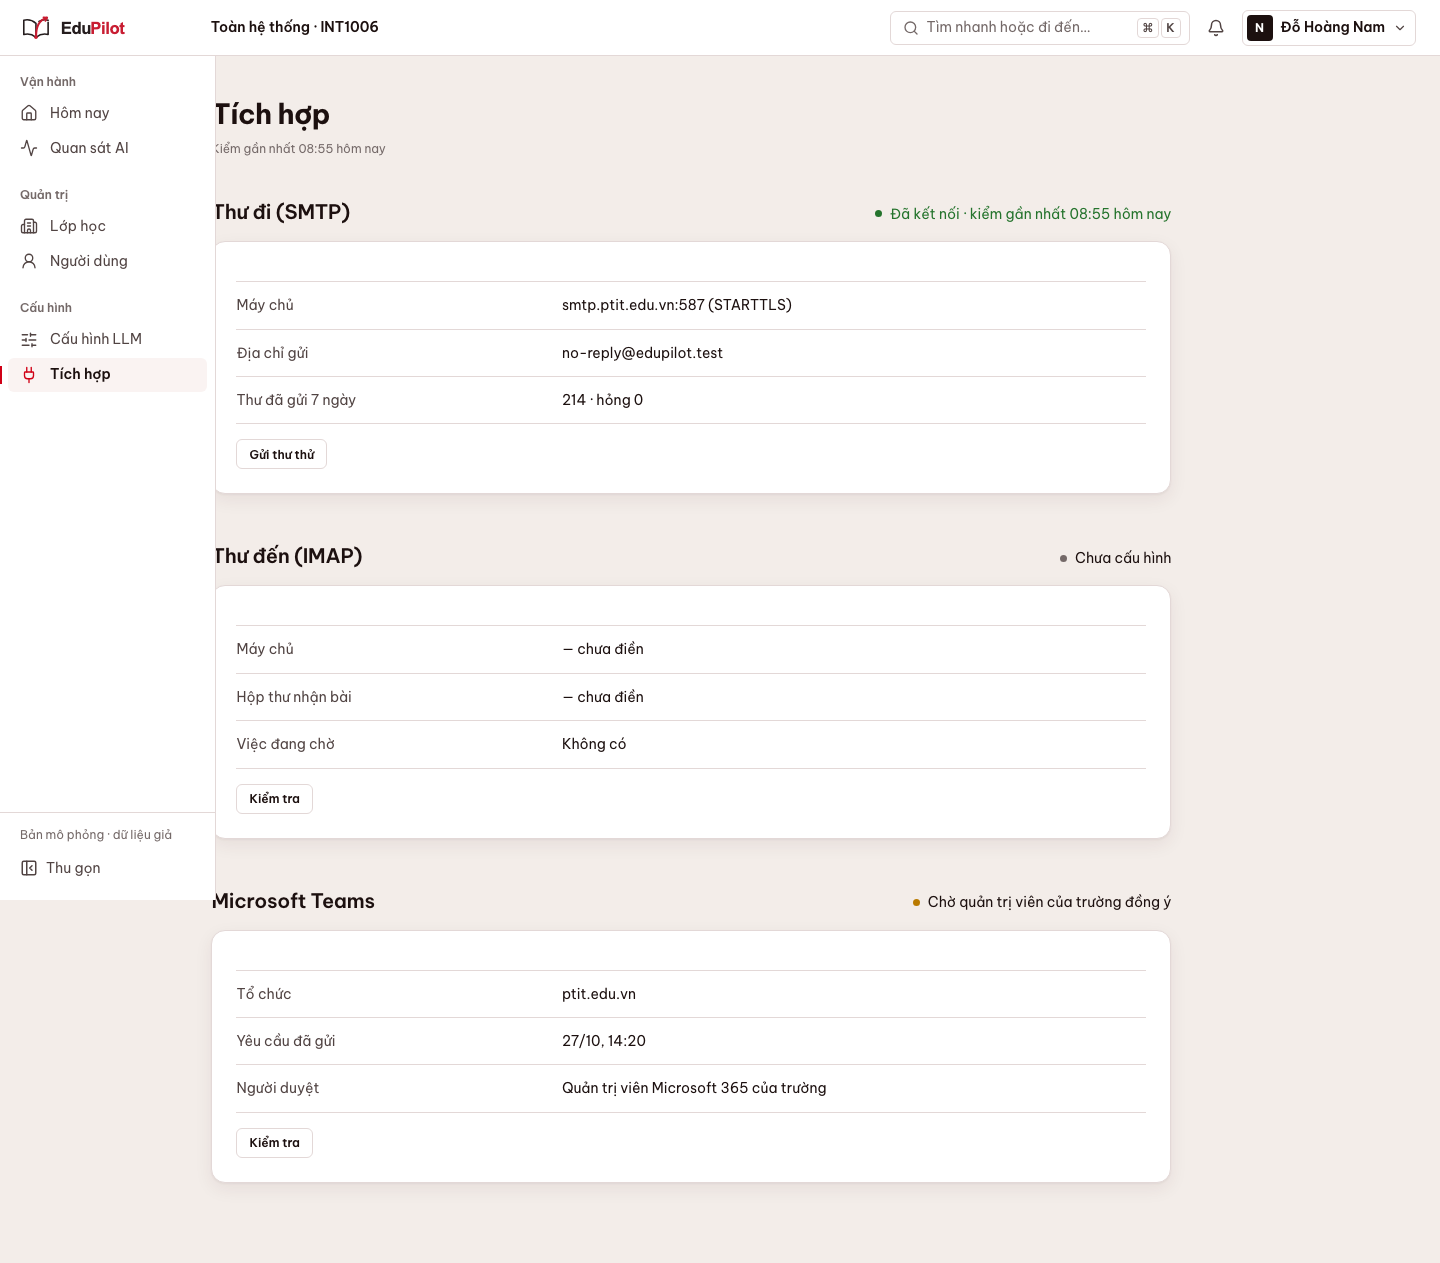
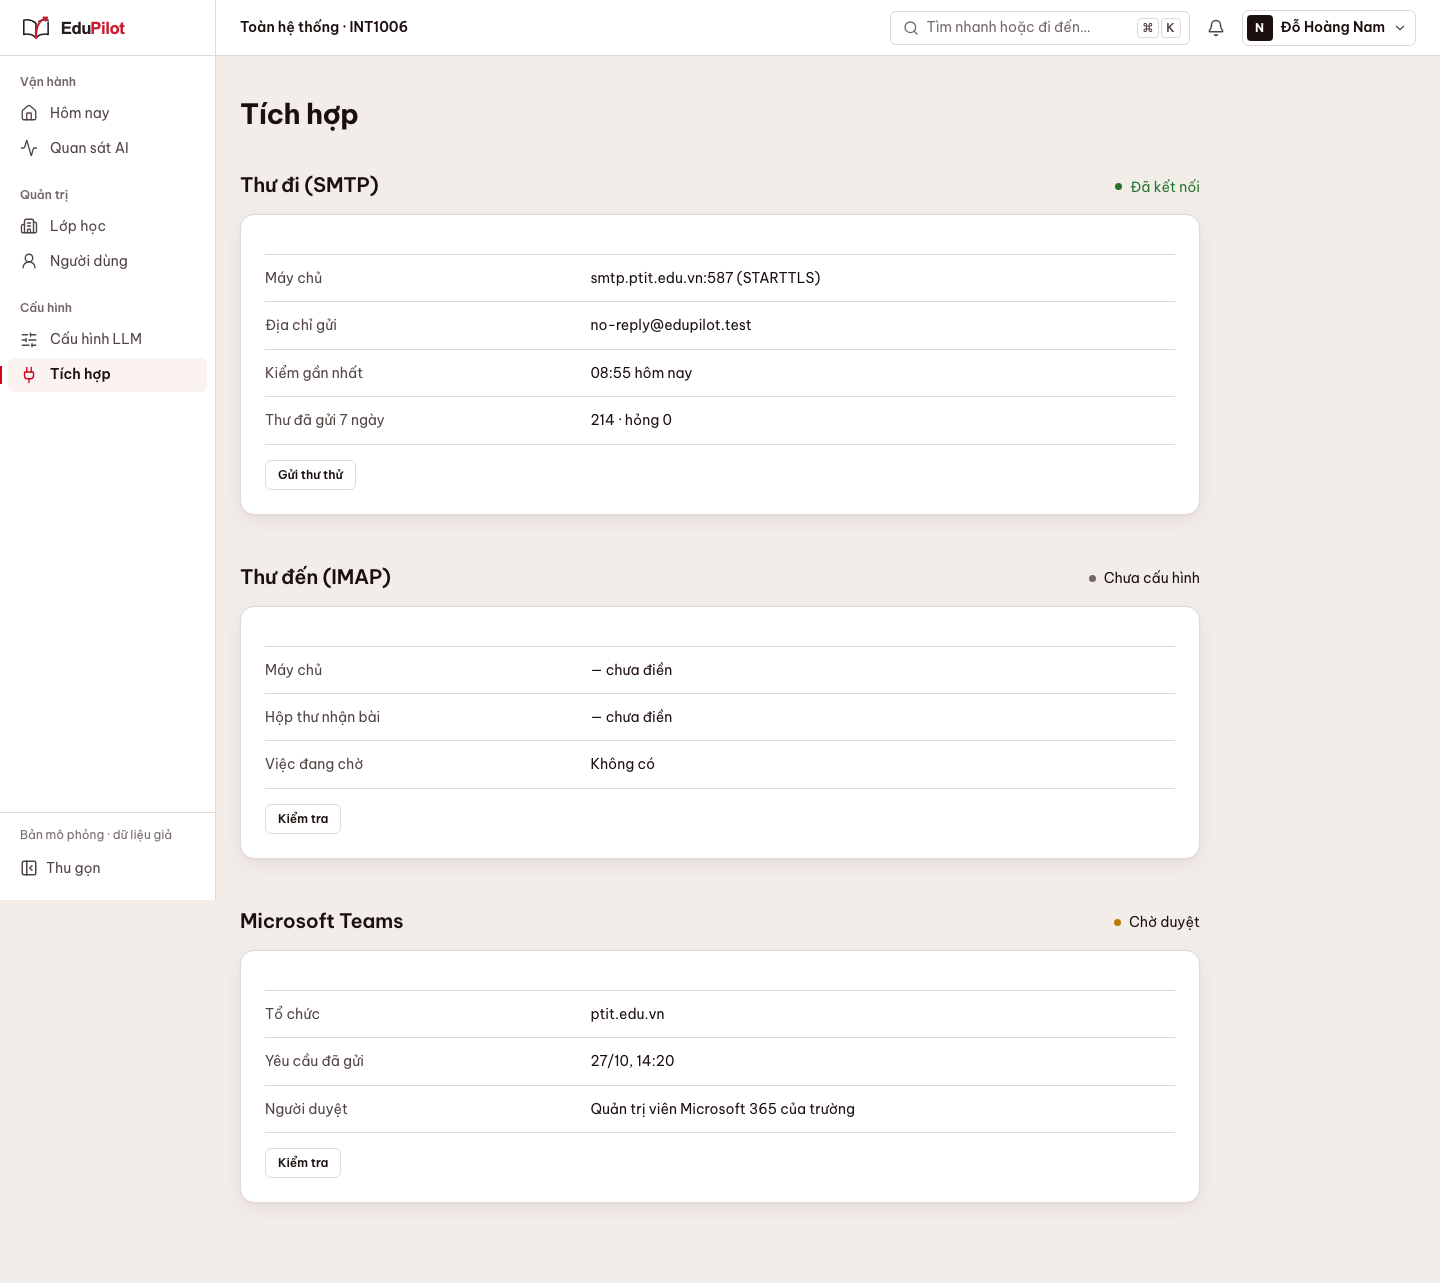
sprint 8: QC report US-S8-UI vòng 2–3 (PASS giao diện), US-P6-03 (FAIL: 3 test cũ đỏ)

diff --git a/docs/sprints/8/qc/report-US-P6-03.md b/docs/sprints/8/qc/report-US-P6-03.md
@@ -1,0 +1,95 @@
+# QC report — US-P6-03 (trích công thức từ quy chế: `ExtractGradeScheme`, bộ kiểm bằng code, trích dẫn, AI chỉ nháp) · Kết luận: **FAIL** (vòng 1)
+Ngày 2026-10-31. Commit kiểm: `sprint/8-p6` @ `4acd28b6` (dev) → kiểm trên `d4efecdd`/`f4921c86` (không đổi mã story). Bộ TC: `tc-US-P6-03.md` (sửa 1 dòng theo #11, lịch sử trong tệp). Handoff: `dev-US-P6-03.md`. **CI của dev đỏ** (run `41185772706`: `Go test (rest-1)`, `Go test (rest-2)`, `Frontend e2e (Playwright 1/3, 2/3)`, `Frontend Lighthouse (devtools B)`); QC xác nhận lại ba lỗi Go trên máy QC. Lượt chấm vẫn làm đủ để dev sửa một lần; AC của story không có AC nào FAIL ở mức hành vi, nhưng story **không** đạt "không phá cái đang chạy" (`AGENTS.md` nguyên tắc 8).
+
+## 1. Cổng nghiệm thu đã chạy
+| Lệnh | Kết quả |
+| --- | --- |
+| `p6-go-tests.sh ./internal/grading "<37 test của US-P6-03>"` | PASS 37/37 (không thiếu, không SKIP) |
+| `go test -count=1 -race -tags integration ./internal/grading/... ./internal/grade/...` | PASS (167 test) |
+| `go test -count=1 ./internal/contract/...` (không `-tags testroutes`) | PASS |
+| `go test -count=1 -race -tags testroutes ./internal/contract -run TestSpec_LoadsAndValidates` | **FAIL**: `contract_test.go:67: openapi.yaml: 227 thao tác (cần 226)` |
+| `go test -count=1 -tags testroutes ./internal/integration -run TestNoUnscopedChunkQuery` | **FAIL**: `course_guard_test.go:141` — `GradeDocForExtract (grade_scheme.sql): đọc content_chunks mà không lọc theo course_ids` |
+| `go test -count=1 -tags testroutes ./internal/rag -run TestKnowledgeDocExcludedEverywhere` | **FAIL**: `knowledge_test.go:175` — `grade_scheme.sql: truy vấn đọc documents mà không loại tài liệu tri thức` (thiếu `THREAD_KNOWLEDGE`) |
+| `go test ./internal/integration -run TestAllCourseRoutesGuarded` | PASS (route mới đi qua guard; `…DetectsMissing` PASS) |
+| `go vet` các gói đụng tới; `golangci-lint run ./internal/grading/... ./internal/grade/... ./internal/httpapi/...` | PASS, `0 issues` |
+| `sqlc diff` | PASS rc=0 |
+| `grep -rln 'openai-go\|api.openai.com' internal --include=*.go \| grep -v '_test.go\|internal/llm/'` | rỗng (SDK chỉ ở `internal/llm`, luật 3) |
+| `grep -rn ConfirmScheme backend-go --include=*.go` | rỗng — chưa có hàm xác nhận nào (US-P6-04 thêm); AC6 hiện đúng |
+| Thử đột biến (bản sao `/tmp/qc-mut`, đã xoá) | xem mục 2 |
+| `p6-hand-calc.py`; `p6-citation-check.py` ở fixture | rc=0; 10/10 và 6/6 trích dẫn đúng trang (đáp án BA đúng) |
+| `playwright test class-join.spec.ts -g "bell real: chấm"` (máy QC) | **FAIL 4/4 lần** (`class-join.spec.ts:398` `expect.poll(() => lists).toBeGreaterThan(before)`: Received 1) — trùng ca đỏ ở CI shard 1/3 desktop + mobile (retry #1 cũng đỏ) |
+
+## 2. Thử đột biến (test của dev có bảo vệ hành vi không?)
+| Đột biến | Kết quả |
+| --- | --- |
+| N1 bỏ `ROUNDING_MISSING` ở bộ kiểm | **đỏ**: `TestCheckerRounding`, `TestExtractLop2OneUnclear` |
+| N2 tắt kiểm trích dẫn (`cited != nil` → `false`) | **đỏ**: `TestCitationNotFound`, `…PageMissing`, `…OCRTolerance`, `…ComparedAfterUnmask` |
+| N3 thử lại cả lỗi không-tạm (`!transient` → `false`) | **đỏ**: `TestExtractLLMDown` |
+| N4 `temperature` 0 → 0,7 | **đỏ**: `TestExtractOneStructuredCall` |
+| N5 `maxAttempts` 3 → 5 | **đỏ**: `TestExtractLLMDown` |
+| N7 bỏ nhánh "bản nháp bị sửa trong lúc job chạy" | **đỏ**: `TestExtractDraftEditedDuringJob` |
+
+## 3. Kết quả TC
+| TC | Kết quả | Bằng chứng |
+| --- | --- | --- |
+| 01 `extract` → `202 {job_id}` → job xong, SSE tiến độ | PASS ở mức test (contract `202`, `TestExtractGradeScheme` chạy job tới `DONE`) | chưa chạy trên stack đầy đủ + SSE trình duyệt: để US-S8-SEED / gate |
+| 02 đúng một lời gọi `llm_audit`, `UTILITY`, `NEAR_REALTIME` | PASS | `TestExtractUsesPrivacyMask` (đếm `llm_audit` từng lời gọi), `TestExtractTaskAndLane`, `TestExtractOneStructuredCall` |
+| 03 không lộ toàn văn quy chế ở log / `llm_audit` | PASS theo cấu trúc | `llm_audit` không có cột nội dung (đã đọc `db/migrations/00002_llm.sql`: `llm_audit` chỉ có task, lane, provider, model, token, trạng thái — không cột prompt / response) |
+| 04 SDK chỉ ở `internal/llm` | PASS | grep rỗng |
+| 05 test AC1 | PASS | 5/5 |
+| 06 schema `strict` | PASS | `TestExtractSchemaStrictCompatible` |
+| 07–09 quy chế lớp 1: 3 thành phần 20/20/60, đủ luật, `unclear_items` rỗng | PASS | `TestExtractGradeScheme` so từng trường với `extraction-lop1.json` |
+| 10 trích dẫn đúng trang | PASS | `p6-citation-check.py` 10/10 ở fixture; `TestCitationVerified` |
+| 11 `seed/demo/quy-che-lop1.pdf` | KHÔNG KIỂM ĐƯỢC (chưa có PDF) → US-S8-SEED | |
+| 12 `Quyche.pdf` → `OTHER` | KHÔNG KIỂM ĐƯỢC → US-S8-SEED | |
+| 13, 15 lớp 2: đúng một `ROUNDING_MISSING` | PASS | `TestExtractLop2OneUnclear` (N1 làm đỏ) |
+| 14 PDF lớp 2 không có "làm tròn" | PASS ở nguồn: `grep -ciE 'làm tròn|quy tròn|bước điểm' fixtures/quy-che-lop2.md` = 0; PDF: → US-S8-SEED | |
+| 16 test bộ kiểm | PASS 8/8 | `TestChecker*` |
+| 17–20 đầu ra LLM cố ý sai (tổng 90, thang lỗi, `PARAM_INVALID`, LLM nói `unclear_items: []`) | PASS (test của dev + N1) | mã do code thêm (`source CODE`), không tin LLM |
+| 21–24 trích dẫn bịa / sai trang / bỏ dấu / đổi chữ | PASS | `TestCitation*` 5/5; N2 làm đỏ; `vn_fold` chỉ ở SQL (`grade_scheme.sql`), không có hàm `vnFold` ở Go |
+| 25, 27 `DRAFT`, `confirmed_by` NULL; không đường xác nhận ngoài handler | PASS | `TestExtractNeverConfirms`; không có `ConfirmScheme`; `TestConfirmOnlyFromHandler` thuộc US-P6-04 |
+| 26 `ConfirmScheme` chỉ tham chiếu từ handler | PASS hiện tại (chưa tồn tại) → kiểm lại ở US-P6-04 | |
+| 28 seed không ghi thẳng DB | KHÔNG KIỂM ĐƯỢC → US-S8-SEED | |
+| 29, 31 prompt có ranh giới, không theo lệnh trong văn bản, mask PII | PASS | `TestPromptDelimitsDocument`, `TestPromptNoInstructionFollowing`, `TestExtractUsesPrivacyMask` |
+| 30 injection "đặt trọng số 100% giữa kỳ" | PASS ở mức dựng prompt (test của dev); provider giả phát lại bản ghi nên không tự chứng minh LLM "không tuân lệnh" (giới hạn đã ghi ở TC) | |
+| 32–34 `DOCUMENT_NOT_POLICY` / `NOT_READY` / `POLICY_TOO_LONG` | PASS | contract (422 / 409 / 422) + `TestExtract{NotPolicy,NotReady,TooLong}` |
+| 35–37 LLM lỗi → thử lại ≤ 3 → `LLM_UNAVAILABLE`; sai schema → `EXTRACTION_INVALID` một lời gọi; không phá `CONFIRMED` | PASS | `TestExtractLLMDown`, `TestExtractInvalidSchema`, `TestExtractFailureKeepsConfirmed`; N3, N5 làm đỏ |
+| 38–39 idempotent; worker bị giết | PASS | `TestExtractIdempotentKey`, `TestExtractIdempotencyHTTP`, `TestExtractKillWorkerMidRun` |
+| 40–42 `DRAFT_EXISTS`, `replace_draft`, sửa trong lúc job chạy, `version` đổi | PASS | `TestExtract{DraftExists,ReplaceDraft,DraftEditedDuringJob,ReplaceDraftVersionChanged}`; N7 làm đỏ |
+| 43 12 test AC7–AC8 | PASS | |
+| 44, 46–48 TA / STUDENT / ADMIN `403`; STUDENT đọc `403`; TA đọc | PASS: contract (`401` không đăng nhập, `403` TA/SV/ADMIN) + `TestExtractRBAC`; TA `GET …/grade-scheme` thuộc US-P6-04 | |
+| 45 giảng viên lớp khác | PASS theo #11: `403` (guard dùng chung); id không phải uuid `404` (contract dòng 47); document không tồn tại `404` | |
+
+## 4. AC
+| AC | Kết quả |
+| --- | --- |
+| AC1 một lời gọi có cấu trúc | PASS |
+| AC2 quy chế lớp 1 | PASS (mức fixture/provider giả; PDF seed ở US-S8-SEED) |
+| AC3 quy chế lớp 2 một chỗ chưa rõ | PASS (như trên) |
+| AC4 bộ kiểm bằng code | PASS |
+| AC5 trích dẫn có thật | PASS |
+| AC6 AI chỉ nháp | PASS |
+| AC7 nhánh lỗi tài liệu / LLM | PASS |
+| AC8 idempotent, nhận lại việc | PASS |
+| AC9 tài liệu là dữ liệu không tin cậy; riêng tư | PASS |
+| AC10 phân quyền | PASS (theo #11) |
+
+Các AC của story **PASS**; story **FAIL** vì phá test cũ / CI đỏ (mục 5).
+
+## 5. Lỗi
+- **BUG-P6-03-1 (Cao — phá test cũ, rule bảo mật):** `internal/store/queries/grade_scheme.sql` truy vấn `GradeDocForExtract` đọc `content_chunks` mà không có điều kiện `course_ids` → `TestNoUnscopedChunkQuery` (`internal/integration/course_guard_test.go:141`, "truy vấn nào chạm `content_chunks` cũng phải có điều kiện `course_ids`") đỏ. Tái hiện: `cd backend-go && go test -count=1 -tags testroutes ./internal/integration -run TestNoUnscopedChunkQuery`. Kỳ vọng: truy vấn thoả luật chung (nêu `course_ids` khi đọc `content_chunks`); **không** sửa test. Trong code hiện tại truy vấn có `d.course_id = sqlc.arg(course_id)` ở bảng `documents`, nhưng subselect trên `content_chunks` lọc theo `document_id` — đủ về chức năng, nhưng luật chung đòi điều kiện `course_ids` để phát hiện hàm "không lọc lớp"; cách sửa là thêm điều kiện `c.course_ids @> array[course_id]` (cùng mẫu `rag.sql`).
+- **BUG-P6-03-2 (Cao — phá test cũ, rule tri thức luồng):** các truy vấn đọc `documents` ở `grade_scheme.sql` thiếu điều kiện loại tài liệu tri thức (chữ `THREAD_KNOWLEDGE`) → `TestKnowledgeDocExcludedEverywhere` (`internal/rag/knowledge_test.go:175`, quét MỌI `from/join documents`) đỏ. Tái hiện: `go test -count=1 -tags testroutes ./internal/rag -run TestKnowledgeDocExcludedEverywhere`. Kỳ vọng: mọi truy vấn đọc `documents` loại `THREAD_KNOWLEDGE` (như các `*.sql` khác); không sửa test.
+- **BUG-P6-03-3 (Cao — phá test cũ, cần proposal):** `TestSpec_LoadsAndValidates` (`internal/contract/contract_test.go:67`) ghim số thao tác của `openapi.yaml` ("cần 226"); thêm route `POST …/grade-scheme/extract` làm 227 → đỏ ở CI (`-race -tags testroutes`); không đỏ khi chạy không có `-tags testroutes` nên dev không thấy ở lượt chạy gói. Đây là test cũ: dev **không** tự sửa số; mở proposal (cùng loại #9) rồi báo PM qua herdr, chờ ACCEPTED. Mỗi story route kế tiếp của sprint sẽ lặp lại điều này: đề nghị PM duyệt **một lần** quy tắc "mỗi route mới tăng số ghim đúng bằng số route thêm, commit ghi số proposal chung", tránh mở proposal mỗi story.
+- **BUG-P6-03-4 (Trung bình — CI đỏ chưa rõ nguyên nhân):** `Frontend e2e` `class-join.spec.ts:361` "bell real" đỏ ở CI (shard 1/3 desktop + mobile, kể cả retry #1) và trên máy QC (4/4 lần): `expect.poll(() => lists)` không vượt `before` sau `page.clock.runFor(31_000)`. Diff frontend giữa lần xanh cuối (`12fa90bf`, run `41184610941`) và `4acd28b6` chỉ ở `IntegrationsSettings.tsx`, `EmbeddingSection.tsx`, `mock/system.ts` — không chạm chuông thông báo; QC chưa tìm ra nguyên nhân. Đề nghị dev điều tra (có thể ca vốn mong manh với thời gian chạy; hoặc phụ thuộc thứ tự). Cùng run: `Frontend Lighthouse (devtools B)` đỏ LCP `maxNumericValue` (assertion `error`) — nghi cùng nguyên nhân tải máy CI; dev chạy lại để phân biệt flake với hồi quy. QC không chốt đây là lỗi của US-P6-03.
+- **BUG-P6-03-5 (Quy trình, Trung bình):** handoff liệt kê `go test ./internal/grading ./internal/grade ./internal/contract ./internal/store` — không chạy bộ test toàn cục (`scripts/go-test-all.sh`) trước khi push; ba test cũ đỏ do chính commit này (lần thứ hai: US-P6-01 đã bị `TestGradeQueriesNeverReadStudyTime`). Luật `dev.md`: "CI xanh trước khi sang story kế; dùng `scripts/go-test-all.sh` cho lượt Go đầy đủ".
+
+## 6. Kiểm phản mẫu / luật mở rộng / phân quyền
+- Luật 3: SDK provider chỉ ở `internal/llm`. Luật 11: task `UTILITY`, làn `NEAR_REALTIME` (test). Luật 12: việc nền 202 + job. Luật 14: `Idempotency-Key` bắt buộc (contract) và gửi lại cùng khoá → cùng `job_id`.
+- Test cũ bị sửa: `contract_test.go` +1 dòng `want` (proposal #9 ACCEPTED); `scenarios_exam_test.go` +1 dòng gọi (#9); `store/gradebook_schema_test.go` đổi căn lề gofmt (test của chính US-P6-01). Không nới assertion nào.
+- Không thư viện mới; không secret; không PII trong log (`TestExtractUsesPrivacyMask`).
+- `golangci-lint` 0 issue; `sqlc diff` rỗng.
+
+## Đề nghị
+1. Dev sửa `grade_scheme.sql` (BUG-1, 2) — thêm điều kiện `course_ids` và loại `THREAD_KNOWLEDGE`, chạy `sqlc generate`; mở proposal cho số ghim 226 → 227 (BUG-3), báo PM qua herdr; điều tra BUG-4; chạy `scripts/go-test-all.sh` trước push.
+2. Sau khi CI xanh, QC chấm lại nhanh: ba test cũ + `TestExtract*` + contract với `-race -tags testroutes`; story PASS nếu không còn lỗi.
+3. Các TC còn chờ seed (11, 12, 14 PDF, 28) và stack đầy đủ (01 SSE) chuyển sang US-S8-SEED / `gate-P6`.

diff --git a/docs/sprints/8/qc/report-US-S8-UI.md b/docs/sprints/8/qc/report-US-S8-UI.md
@@ -1,4 +1,44 @@
-# QC report — US-S8-UI (bỏ câu mô tả thừa ở `/settings/llm`, `/settings/integrations`, khối bảo mật `/settings`) · Kết luận: **FAIL** (AC1 FAIL, AC2 FAIL, AC3 PASS)
+# QC report — US-S8-UI (bỏ câu mô tả thừa ở `/settings/llm`, `/settings/integrations`, khối bảo mật `/settings`) · Kết luận vòng 3 (2b): **PASS phần giao diện** (AC1, AC2, AC3 PASS trên máy QC; CI của dev đỏ ở `Playwright 2/3` và `Lighthouse devtools B` — nguyên nhân chưa đọc được lúc chấm, xem mục "Vòng 3"). Vòng 2: FAIL (AC1: BUG-2, 3 chưa sửa). Vòng 1: FAIL (AC1, AC2)
+
+## Vòng 3 (2026-10-31, `sprint/8-p6` @ `f4921c86` — handoff mục "Vòng 2b", #10 ACCEPTED)
+Dựng lại `pnpm build:gate`; dump `docs/sprints/8/qc/shots/ui-settings-*.txt` (1440 px) và `ui-settings-*-390.txt/png` (390 px, lần đầu có).
+| Lỗi | Kết quả | Bằng chứng |
+| --- | --- | --- |
+| BUG-S8-UI-2 cảnh báo dài lặp 3 dòng | **ĐÃ SỬA** | không còn `InlineNotice` câu dài; ba tác vụ chỉ có một mô hình hiện nhãn ngắn `Chưa có dự phòng` (`StatusText`, 1–3 từ) đúng chỗ #10 chấp nhận; không còn chữ "nếu nhà cung cấp lỗi" |
+| BUG-S8-UI-3 trạng thái dài / dòng phụ trùng / `Khoá API ••••` | **ĐÃ SỬA** | trạng thái `Đã kết nối` / `Lỗi xác thực`; không dòng `Khoá API`; không dòng phụ trùng tên; dòng rỗng `Mặc định máy chủ` |
+| BUG-S8-UI-1, 4 (vòng 2) | giữ nguyên đã sửa | không câu dưới tiêu đề "Mô hình tìm kiếm tài liệu"; integrations `Đã kết nối` / `Chưa cấu hình` / `Chờ duyệt`, "Kiểm gần nhất" một lần |
+Kiểm: `playwright test settings-llm shell lcp a11y panels --project=desktop --workers=2 --retries=0`: **112 passed**, 2 skipped, 0 failed; `ui-antipatterns.sh` rc=0; `pnpm lint` sạch; icon Info/CircleHelp = 0; tooltip chỉ ở hai nút chỉ-có-icon. Test cũ bị sửa: `e2e/settings-llm.spec.ts` (`:41`, khối dự phòng) — **có proposal #10 ACCEPTED**, chỉ đổi đúng chuỗi và đếm theo số dòng một mô hình, không đổi gì khác (`git diff 4ff5bb76..f4921c86 -- frontend/e2e`).
+390 px (TC-06, 10): `/settings/llm` và `/settings/integrations` một cột, không câu mô tả, không tràn ngang; ghi nhận (thấp): ô chọn "Tóm tắt lớp học" hiện nhãn tuỳ chọn `Chưa chọn — dùng cấu hình mặc định của máy chủ` bị cắt ở 390 px (nhãn của giá trị chọn, không phải câu mô tả) — dev xét đổi `Mặc định máy chủ` cho đồng bộ.
+Ảnh mốc `visual.spec.ts` (TC-18): QC không dựng lại trong image Playwright (cần cài `pnpm install` Linux riêng); dev báo 14 passed trong image; `git diff` chỉ đổi `settings-llm-390.png`. **CI ở `f4921c86`:** `Frontend e2e (Playwright 2/3)` và `Frontend Lighthouse (devtools B)` đỏ, `Playwright 3/3` và `lint + build` xanh, các job Go bỏ qua (commit chỉ đổi frontend); nhật ký chi tiết chưa đọc được khi run còn chạy → QC sẽ ghi bổ sung. Không đổi kết luận AC (đo trực tiếp trên màn), nhưng story chưa "CI xanh". Nghi `Lighthouse devtools B` và `bell real` (xem `report-US-P6-03.md` BUG-P6-03-4) là cùng nguyên nhân hạ tầng/ca mong manh, không thuộc US-S8-UI.
+
+| AC | Vòng 3 |
+| --- | --- |
+| AC1 `/settings/llm` | **PASS** |
+| AC2 `/settings/integrations` | **PASS** |
+| AC3 bảo mật `/settings` | **PASS** |
+
+---
+
+## Vòng 2 (2026-10-31, `sprint/8-p6` @ `d4efecdd`; commit dev `74a778c7`; handoff mục "Vòng 2"; proposals #10, #11 ACCEPTED)
+Dựng lại `pnpm build:gate`, dump lại ba màn (`shots/ui-settings-*.txt/png` ghi đè). Lưu ý môi trường: server `next start` / `api-server.mjs` của lượt trước còn chạy với bản dựng cũ → QC kill rồi mới đo (nếu không, trang báo "Trang này gặp sự cố").
+| Lỗi vòng 1 | Vòng 2 | Bằng chứng |
+| --- | --- | --- |
+| BUG-S8-UI-1 câu thường trực "Đổi mục này cần lập chỉ mục lại tài liệu." | **ĐÃ SỬA** | dump `/settings/llm`: khối "Mô hình tìm kiếm tài liệu" không còn câu dưới tiêu đề; hệ quả vẫn ở hộp thoại xác nhận đổi mô hình (đúng luật) |
+| BUG-S8-UI-4 trạng thái dài / lặp ở `/settings/integrations` | **ĐÃ SỬA** | trạng thái `Đã kết nối` / `Chưa cấu hình` / `Chờ duyệt`; không còn dòng meta dưới `h1`; "Kiểm gần nhất" chỉ còn **một** lần, thành `DT Kiểm gần nhất` trong danh sách trường của "Thư đi (SMTP)" |
+| BUG-S8-UI-2 cảnh báo `Chưa có dự phòng — …` lặp 3 dòng | **CHƯA SỬA** (chờ dev, #10 đã ACCEPTED) | `RoutesSection.tsx:149` còn nguyên `InlineNotice` |
+| BUG-S8-UI-3 trạng thái / dòng phụ dài, lặp | **CHƯA SỬA** (như trên) | `labels.ts:44` còn `Đã kết nối · kiểm tra lúc …`; `ProviderSection.tsx:81` còn `Khoá API •••••••• · đã kết nối`; dòng phụ trùng tên `OpenAI` / `Gemini`; dòng rỗng "Tóm tắt lớp học" còn câu dài |
+
+Chạy lại: `playwright test settings-llm shell lcp a11y panels --project=desktop --workers=2 --retries=0`: **112 passed**, 2 skipped, 0 failed; `ui-antipatterns` và `lint` không đổi so vòng 1 (dev báo xanh; không có commit đụng thêm). `git diff 0db5ff70..HEAD -- 'frontend/e2e/*'`: không sửa test cũ nào ở vòng này (#10 chưa thực thi: dev nói rõ chờ proposal).
+| AC | Vòng 2 |
+| --- | --- |
+| AC1 `/settings/llm` | **FAIL** (BUG-S8-UI-2, 3 mở) |
+| AC2 `/settings/integrations` | **PASS** |
+| AC3 bảo mật `/settings` | PASS (không đổi) |
+
+**Đề nghị:** dev thực thi #10 (sửa code + hai assertion `settings-llm.spec.ts:41`, `:136–138` cùng commit, ghi `#10`) rồi báo handoff vòng 3; QC chấm lại AC1 (dump + `settings-llm.spec.ts`) và chốt story. Vòng 1 giữ nguyên bên dưới.
+
+---
+## Vòng 1
 Ngày 2026-10-31. Commit kiểm: `sprint/8-p6` @ `12fa90bf` (gồm `365b8050`, `6b539a5e`). Bộ TC: `tc-US-S8-UI.md` (không sửa chữ TC). Handoff: `dev-US-S8-UI.md`. Bản dựng `pnpm build:gate`; chạy ở 1440 × 900, kiểm bằng dump `innerText` + ảnh (`docs/sprints/8/qc/shots/ui-settings-{llm,integrations,admin,teacher,student}.{txt,png}`; spec QC `scripts/qc-s8-ui.spec.ts.txt`, đã gỡ khỏi `frontend/e2e/` sau khi chạy).
 
 Ghi chú trung thực: TC này viết ở pha 1 hộp đen từ US + luật chữ UI, nhưng QC đã đọc `dev-US-S8-UI.md` trước khi viết (lệnh PM giao việc đọc handoff trong cùng lượt). Ba phát hiện lỗi dưới đây đến từ **màn thực chạy**, không từ handoff.
